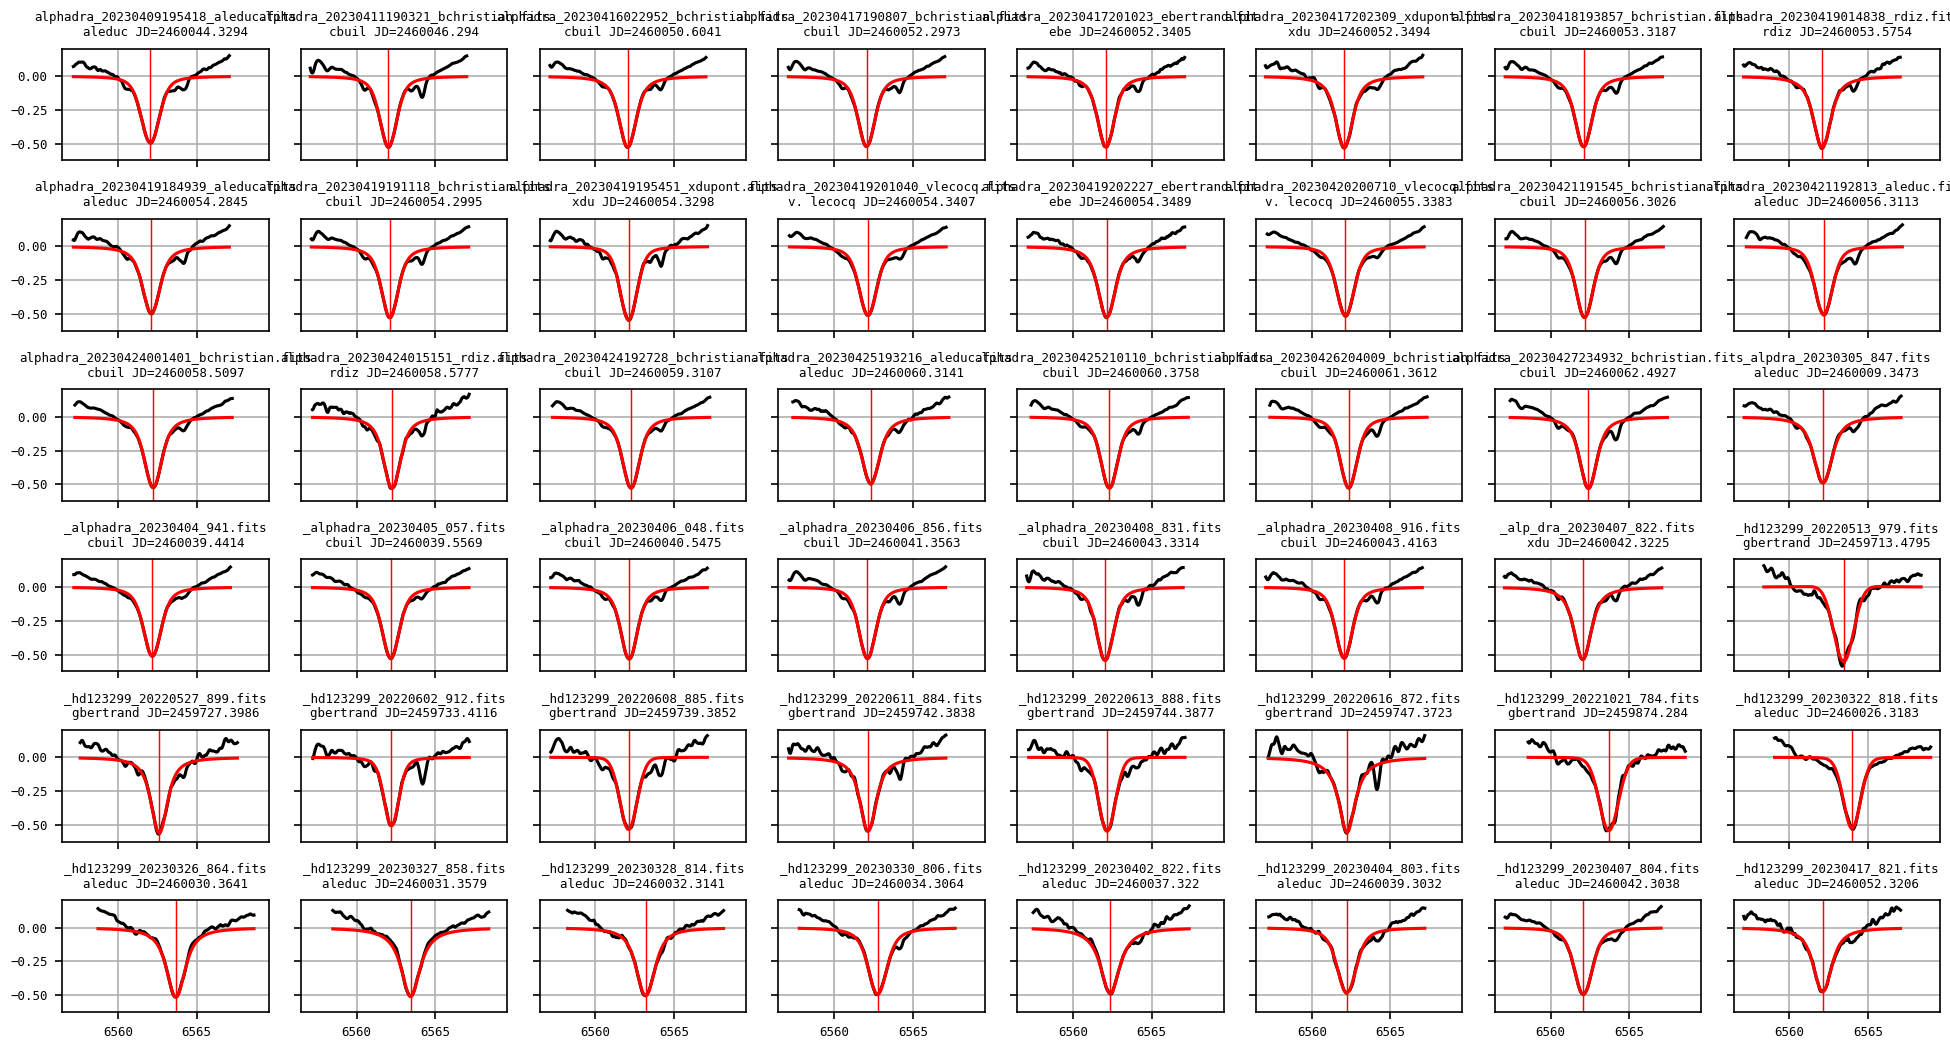
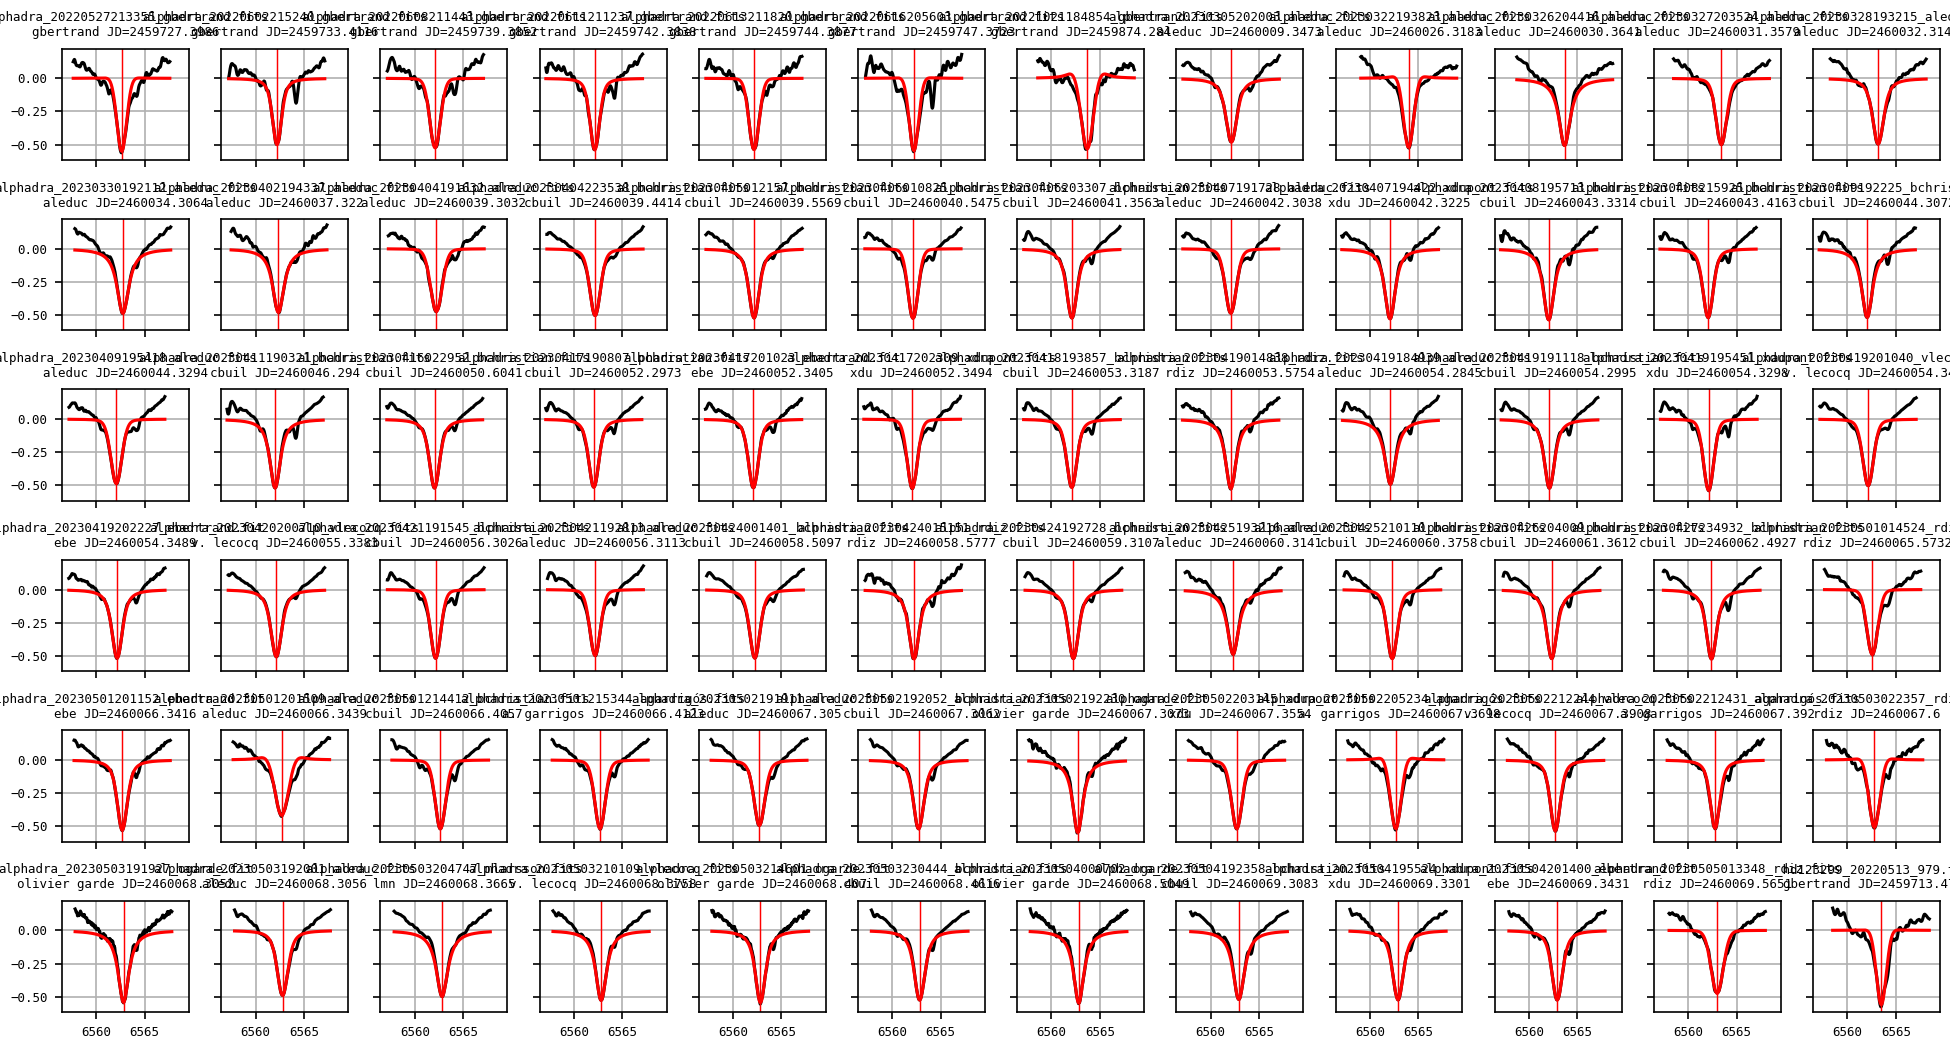
minor improve on findCenterOfLine

Changed region(s): [[0.0, 0.0, 1.0, 1.0]]

diff --git a/spectroscopicbinarysystem/__init__.py b/spectroscopicbinarysystem/__init__.py
@@ -186,31 +186,28 @@ class SBSpectrum1D(Spectrum1D):
         ipeak = self.flux.argmin()
         xpeak = self.spectral_axis[ipeak].to(u.AA)
 
-        invert_s = extract_region(Spectrum1D(flux=self.flux * -1, wcs=self.wcs),
-                                  SpectralRegion(xpeak - (w1 * u.AA), xpeak + (w1 * u.AA)))
+        spec1d_line = extract_region(Spectrum1D(flux=self.flux, wcs=self.wcs),
+                                     SpectralRegion(xpeak - (w1 * u.AA), xpeak + (w1 * u.AA)))
 
-        s_fit = fit_generic_continuum(invert_s,
-                                      exclude_regions=[SpectralRegion(xpeak - (w2 * u.AA), xpeak + (w2 * u.AA))])
-        invert_s = invert_s / s_fit(invert_s.spectral_axis)
-        invert_s = invert_s - 1
+        s_fit = fit_generic_continuum(spec1d_line, exclude_regions=[
+                                      SpectralRegion(xpeak - (w2 * u.AA), xpeak + (w2 * u.AA))])
+        spec1d_line = spec1d_line / s_fit(spec1d_line.spectral_axis)
+        spec1d_line = spec1d_line - 1
 
         match self._conf['LINE_FIT_MODEL']:
             case 'gaussian':
                 g_init = models.Gaussian1D(
-                    mean=xpeak, amplitude=invert_s.flux.argmax())
+                    mean=xpeak, amplitude=spec1d_line.flux.argmin())
             case 'voigt':
                 g_init = models.Voigt1D(
-                    x_0=xpeak, amplitude_L=2 / (np.pi * fwhm))
+                    x_0=xpeak, amplitude_L=spec1d_line.flux.argmin())
             case 'lorentz':
                 g_init = models.Lorentz1D(x_0=xpeak, fwhm=fwhm)
-            case _:
-                g_init = models.Gaussian1D(
-                    mean=xpeak, amplitude=invert_s.flux.argmax())
         #
 
-        g_fit = fit_lines(invert_s, g_init, window=SpectralRegion(
+        g_fit = fit_lines(spec1d_line, g_init, window=SpectralRegion(
             xpeak - (w2 * u.AA), xpeak + (w2 * u.AA)))
-        y_fit = g_fit(invert_s.spectral_axis)
+        y_fit = g_fit(spec1d_line.spectral_axis)
 
         match self._conf['LINE_FIT_MODEL']:
             case 'gaussian':
@@ -218,7 +215,7 @@ class SBSpectrum1D(Spectrum1D):
             case _:
                 center = g_fit.x_0
 
-        self._debug_line_fitting = (invert_s, y_fit)
+        self._debug_line_fitting = (spec1d_line, y_fit)
         self._center_of_line = center.value
 
     def __str__(self):

diff --git a/test.py b/test.py
@@ -9,24 +9,26 @@ sbs = SpectroscopicBinarySystem(
         "LAMBDA_REF": 6562.82,
         "LINE_FIT_MODEL": "voigt",
         "LINE_FIT_WINDOW_WIDTH": 10,
-        "LINE_FIT_CONT_NORM_EXCLUDE_WIDTH": 1.5,
-        "LINE_FIT_FWHM": .5,
+        "LINE_FIT_CONT_NORM_EXCLUDE_WIDTH": 1,
         "RV_CORR_TYPE": "barycentric",
         "SB_TYPE": 1
     },
     debug=False)
 
+# plot result with matplotlib and save the results
 sbs.plotRadialVelocityCurve(
     title="α Dra - HD123299 - Phased radial velocities",
-    subtitle=f"{sbs.getObservationCount()} observations collected from april 2022 to april 2023\nhttps://alphadra.staros-projects.org/\n",
+    subtitle=f"{sbs.getObservationCount()} observations collected from april 2022 to may 2023\nhttps://alphadra.staros-projects.org/\n",
     savefig=True)
 
+# plot 2d dynamic spectrum
 sbs.plotSpec2DFlux(
     title="α Dra - HD123299 - Hα line 2d dynamic spectrum",
-    subtitle=f"{sbs.getObservationCount()} observations collected from april 2022 to april 2023\nhttps://alphadra.staros-projects.org/\n",
+    subtitle=f"{sbs.getObservationCount()} observations collected from april 2022 to may 2023\nhttps://alphadra.staros-projects.org/\n",
     savefig=True
 )
 
+# display result with plotl
 sbs.plotlyRadialVelocityCurve(
     title="α Dra - HD123299 - Phased radial velocities",
     group_by_instrument=False)

diff --git a/README.md b/README.md
@@ -1,7 +1,7 @@
 
 # Spectroscopic Binary System
 
-[![PyPI version](https://badge.fury.io/py/spectroscopicbinarysystem.svg?1.1.43)](https://badge.fury.io/py/spectroscopicbinarysystem)
+[![PyPI version](https://badge.fury.io/py/spectroscopicbinarysystem.svg?1.1.44)](https://badge.fury.io/py/spectroscopicbinarysystem)
 
 **Spectroscopic Binary System** is a package intended to contain functionality and some common tools needed for performing astrophysics on spectroscopic binary stars with Python. It allows, among other things, to automatically measure the radial velocity of SB1 type systems and to find their orbital solution with **BinaryStarSolver** (https://github.com/NickMilsonPhysics/BinaryStarSolver)
 
@@ -60,7 +60,6 @@ And run this code :
 ```python
 from spectroscopicbinarysystem import SpectroscopicBinarySystem
 
-# create SpectroscopicBinarySystem object
 sbs = SpectroscopicBinarySystem(
     object_name='hd123299',
     spectra_path='./examples/alphadra/',
@@ -70,28 +69,30 @@ sbs = SpectroscopicBinarySystem(
         "LAMBDA_REF": 6562.82,
         "LINE_FIT_MODEL": "voigt",
         "LINE_FIT_WINDOW_WIDTH": 10,
-        "LINE_FIT_CONT_NORM_EXCLUDE_WIDTH": 1.5,
-        "LINE_FIT_FWHM": .5,
+        "LINE_FIT_CONT_NORM_EXCLUDE_WIDTH": 1,
         "RV_CORR_TYPE": "barycentric",
         "SB_TYPE": 1
     },
-    debug=True)
+    debug=False)
 
 # plot result with matplotlib and save the results
-sbs.plotRadialVelocityCurve(title="α Dra - HD123299 - Phased radial velocities", 
-                            subtitle=f"{sbs.getObservationCount()} observations collected from april 2022 to april 2023",
-                            savefig=True)
- 
-# display result with plotly
-sbs.plotlyRadialVelocityCurve(
-    title="α Dra - HD123299 - Phased radial velocities")
+sbs.plotRadialVelocityCurve(
+    title="α Dra - HD123299 - Phased radial velocities",
+    subtitle=f"{sbs.getObservationCount()} observations collected from april 2022 to may 2023\nhttps://alphadra.staros-projects.org/\n",
+    savefig=True)
 
 # plot 2d dynamic spectrum
 sbs.plotSpec2DFlux(
-    title="α Dra - HD123299 - 2d dynamic spectrum",
-    subtitle=f"{sbs.getObservationCount()} observations collected from april 2022 to april 2023",
-    savefig=False
+    title="α Dra - HD123299 - Hα line 2d dynamic spectrum",
+    subtitle=f"{sbs.getObservationCount()} observations collected from april 2022 to may 2023\nhttps://alphadra.staros-projects.org/\n",
+    savefig=True
 )
+
+# display result with plotl
+sbs.plotlyRadialVelocityCurve(
+    title="α Dra - HD123299 - Phased radial velocities",
+    group_by_instrument=False)
+
 ```
 
 ![results](https://github.com/guillbertrand/spectrobinarystarsystem/blob/master/examples/alphadra/hd123299_phased_result.png)
